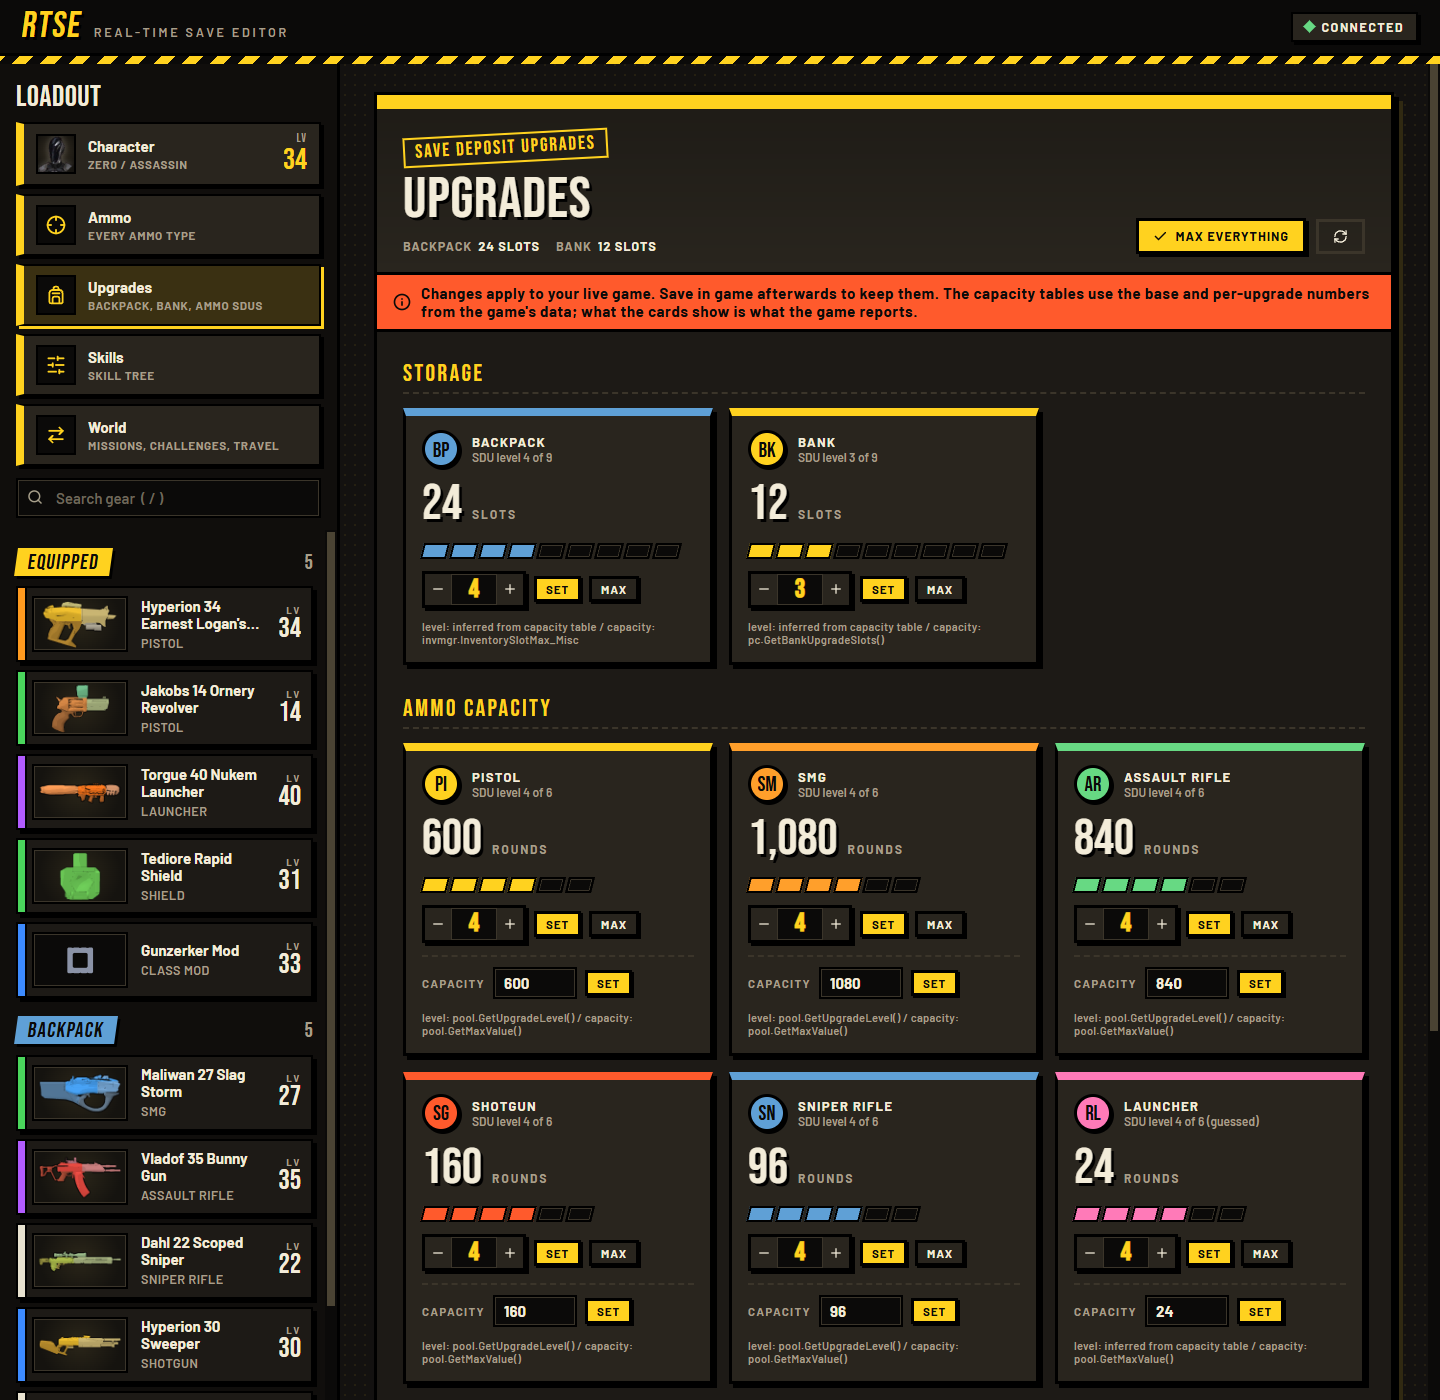
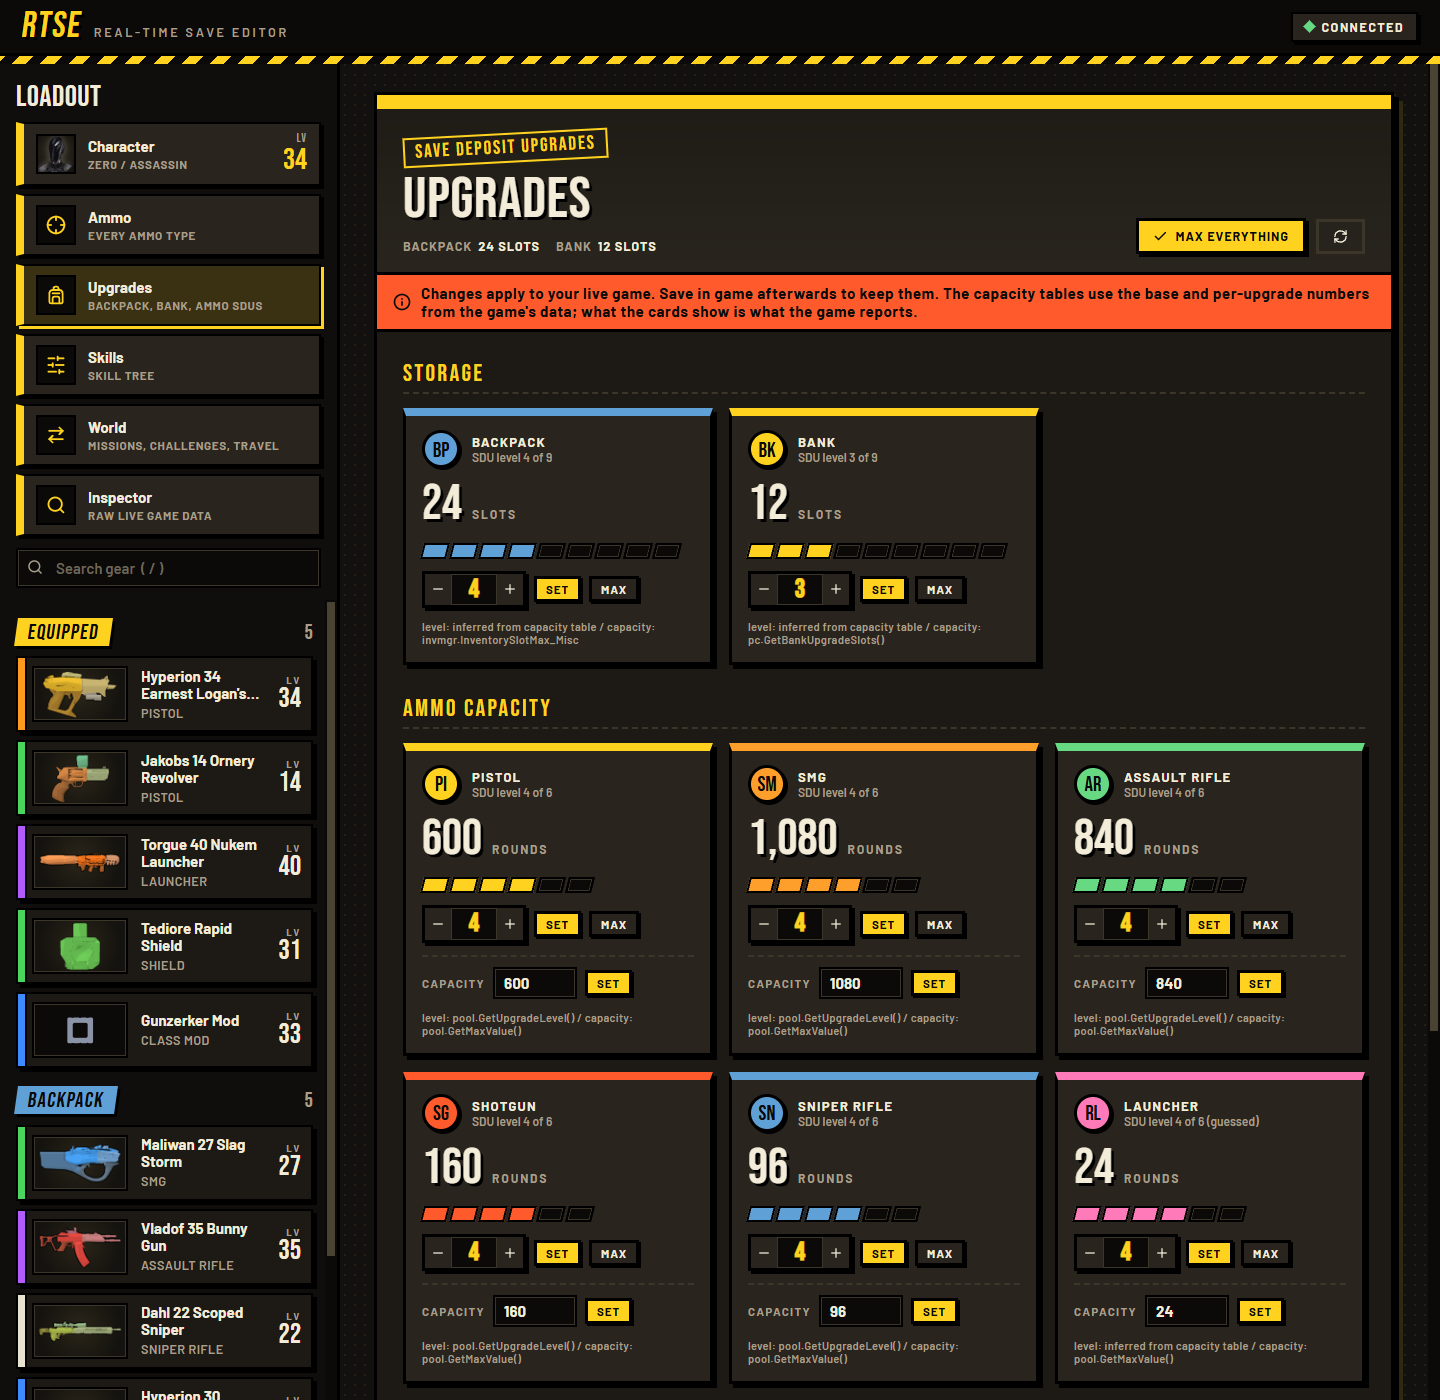
README: retake every screenshot so they show the Inspector, Objectives buttons and Allow above max

Changed region(s): [[0.0, 0.3379, 0.25, 1.0]]

diff --git a/README.md b/README.md
@@ -63,7 +63,7 @@ Your SDU (Storage Deck Upgrade) levels, the same idea as the Gibbed editor. **Ba
 
 ### Skills
 
-![The skill tree page, with one skill selected](docs/screenshots/08-skills.png)
+![The skill tree page, with Allow above max ticked and one skill set past its maximum](docs/screenshots/08-skills.png)
 
 The real skill tree for your class (Zer0 in this picture), straight from the game's own data. Your action skill is at the top. Click any skill to read what it does and set it to an exact rank with the stepper, **Max** or **Zero**. This ignores tier locks, so you can put points into locked skills. It doesn't spend skill points. You can also set your **Unspent** points, or **Reset tree**.
 
